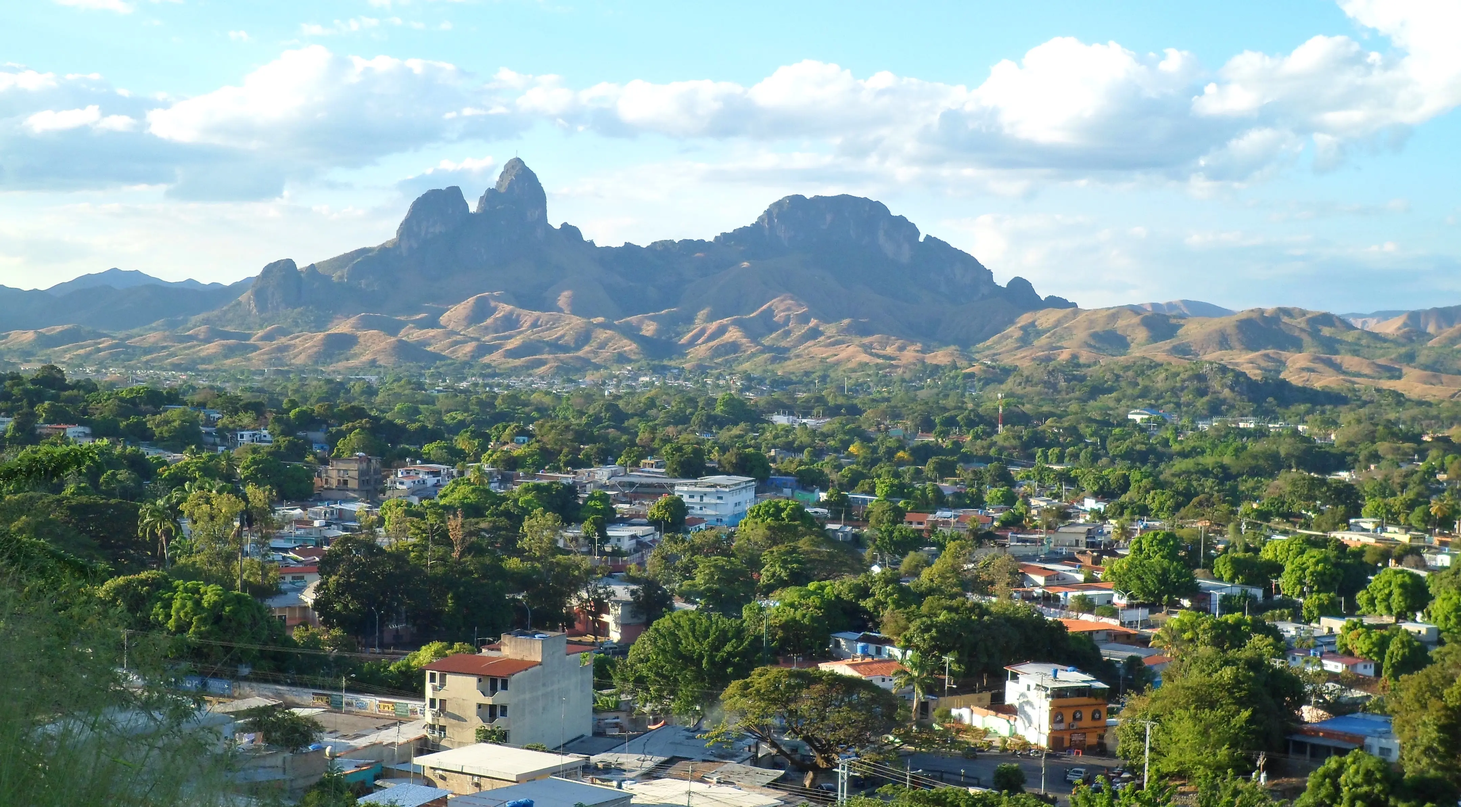
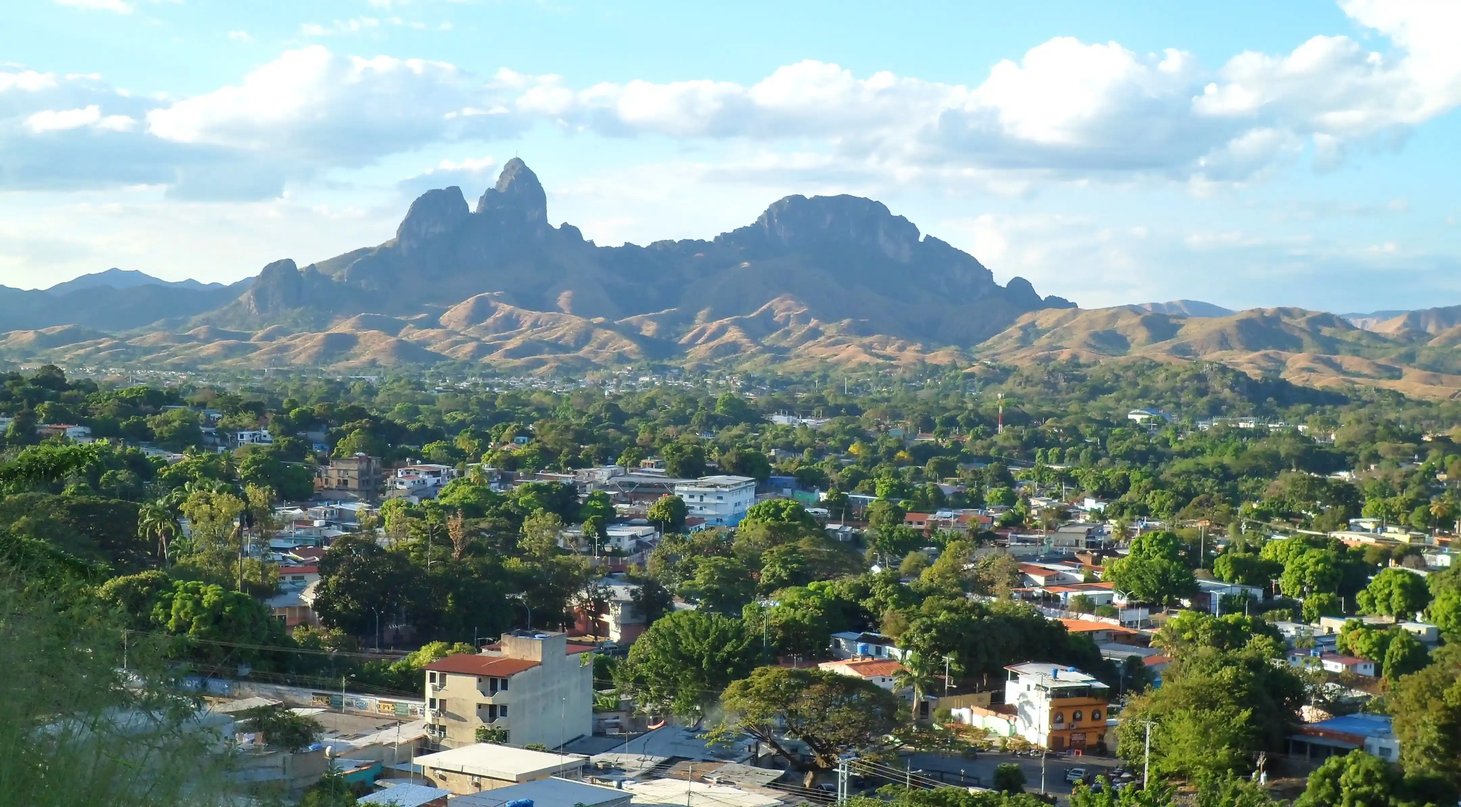
fixt images sizes

diff --git a/src/components/Destacados.jsx b/src/components/Destacados.jsx
@@ -1,6 +1,6 @@
 import Monumeto from "../assets/Monumento_Natural.webp";
 import Monumento2 from "../assets/Monumento2.png";
-import Monumento3 from "../assets/castrero.jpg";
+import Monumento3 from "../assets/castrero.webp";
 import SanJuan from "../assets/sanJuan.jpg";
 import { HiOutlineStar } from "react-icons/hi2";
 
@@ -19,6 +19,7 @@ const Destacados = ({ refScroll }) => {
               <a className="relative block overflow-hidden group rounded-xl" href="#">
                 <div className="overflow-hidden aspect-w-12 aspect-h-7 sm:aspect-none rounded-xl">
                   <img
+                    loading="lazy"
                     className="object-cover w-full transition-transform duration-500 ease-in-out group-hover:scale-105 h-80 rounded-xl"
                     src={Monumeto}
                     alt="Image Description"
@@ -36,6 +37,7 @@ const Destacados = ({ refScroll }) => {
               <a className="relative block overflow-hidden group rounded-xl" href="#">
                 <div className="overflow-hidden aspect-w-12 aspect-h-7 sm:aspect-none rounded-xl">
                   <img
+                    loading="lazy"
                     className="object-cover w-full transition-transform duration-500 ease-in-out group-hover:scale-105 h-80 rounded-xl"
                     src={Monumento2}
                     alt="Image Description"
@@ -53,6 +55,7 @@ const Destacados = ({ refScroll }) => {
               <a className="relative block overflow-hidden group rounded-xl" href="#">
                 <div className="overflow-hidden aspect-w-12 aspect-h-7 sm:aspect-none rounded-xl">
                   <img
+                    loading="lazy"
                     className="object-cover w-full transition-transform duration-500 ease-in-out group-hover:scale-105 h-80 rounded-xl"
                     src={SanJuan}
                     alt="Image Description"
@@ -70,6 +73,7 @@ const Destacados = ({ refScroll }) => {
               <a className="relative block overflow-hidden group rounded-xl" href="#">
                 <div className="overflow-hidden aspect-w-12 aspect-h-7 sm:aspect-none rounded-xl">
                   <img
+                    loading="lazy"
                     className="object-cover w-full transition-transform duration-500 ease-in-out group-hover:scale-105 h-80 rounded-xl"
                     src={Monumento3}
                     alt="Image Description"

diff --git a/src/components/NotFound.jsx b/src/components/NotFound.jsx
@@ -3,11 +3,11 @@ import { Link } from "react-router-dom";
 const NotFound = () => {
   return (
     <div className="">
-      <section className="bg-white h-screen">
-        <div className="py-8 px-4 mx-auto max-w-screen-xl lg:py-16 lg:px-6">
-          <div className="mx-auto max-w-screen-sm text-center">
-            <h1 className="mb-4 text-7xl tracking-tight font-extrabold lg:text-9xl text-emerald-600">404</h1>
-            <p className="mb-4 text-3xl tracking-tight font-bold text-gray-900 md:text-4xl">La Pagina no existe.</p>
+      <section className="h-screen bg-white">
+        <div className="max-w-screen-xl px-4 py-8 mx-auto lg:py-16 lg:px-6">
+          <div className="max-w-screen-sm mx-auto text-center">
+            <h1 className="mb-4 font-extrabold tracking-tight text-7xl lg:text-9xl text-emerald-600">404</h1>
+            <p className="mb-4 text-3xl font-bold tracking-tight text-gray-900 md:text-4xl">La Pagina no existe.</p>
             <p className="mb-4 text-lg font-light text-gray-500 dark:text-gray-400">
               Lo sentimos, no podemos encontrar esa página. Encontrará mucho para explorar en la página de inicio.
             </p>

diff --git a/src/components/Ambiente.jsx b/src/components/Ambiente.jsx
@@ -9,7 +9,7 @@ const AmbienteComponent = () => {
           <h4 className="text-5xl font-bold text-transparent mt-14 bg-clip-text bg-gradient-to-r from-blue-500 to-emerald-500">
             Cuida el medio ambiente{" "}
           </h4>
-          <img className="mt-8" src={Ambiente} alt="" width={300} />
+          <img loading="lazy" className="mt-8" src={Ambiente} alt="" width={300} />
           <div className="max-w-3xl mt-4">
             <p className="text-sm text-gray-800 sm:text-xl">
               Nuestra empresa esta comprometida en el apoyo y mantenimiento de los sitios turiscos para que puedas seguir viviendo nuevas

diff --git a/src/components/Hero.jsx b/src/components/Hero.jsx
@@ -8,7 +8,7 @@ const Hero = ({ refNav, MoreInfo }) => {
         <div className="max-w-6xl pt-20 mx-auto sm:pb-0">
           <Home MoreInfo={MoreInfo} />
           <div className="absolute inset-x-0 top-0 overflow-hidden -z-10 transform-gpu sm:">
-            <img src={Fondo} className="object-cover w-screen h-screen brightness-75" alt="" />
+            <img loading="eager" src={Fondo} className="object-cover w-screen h-screen brightness-75" alt="" />
           </div>
         </div>
       </section>
